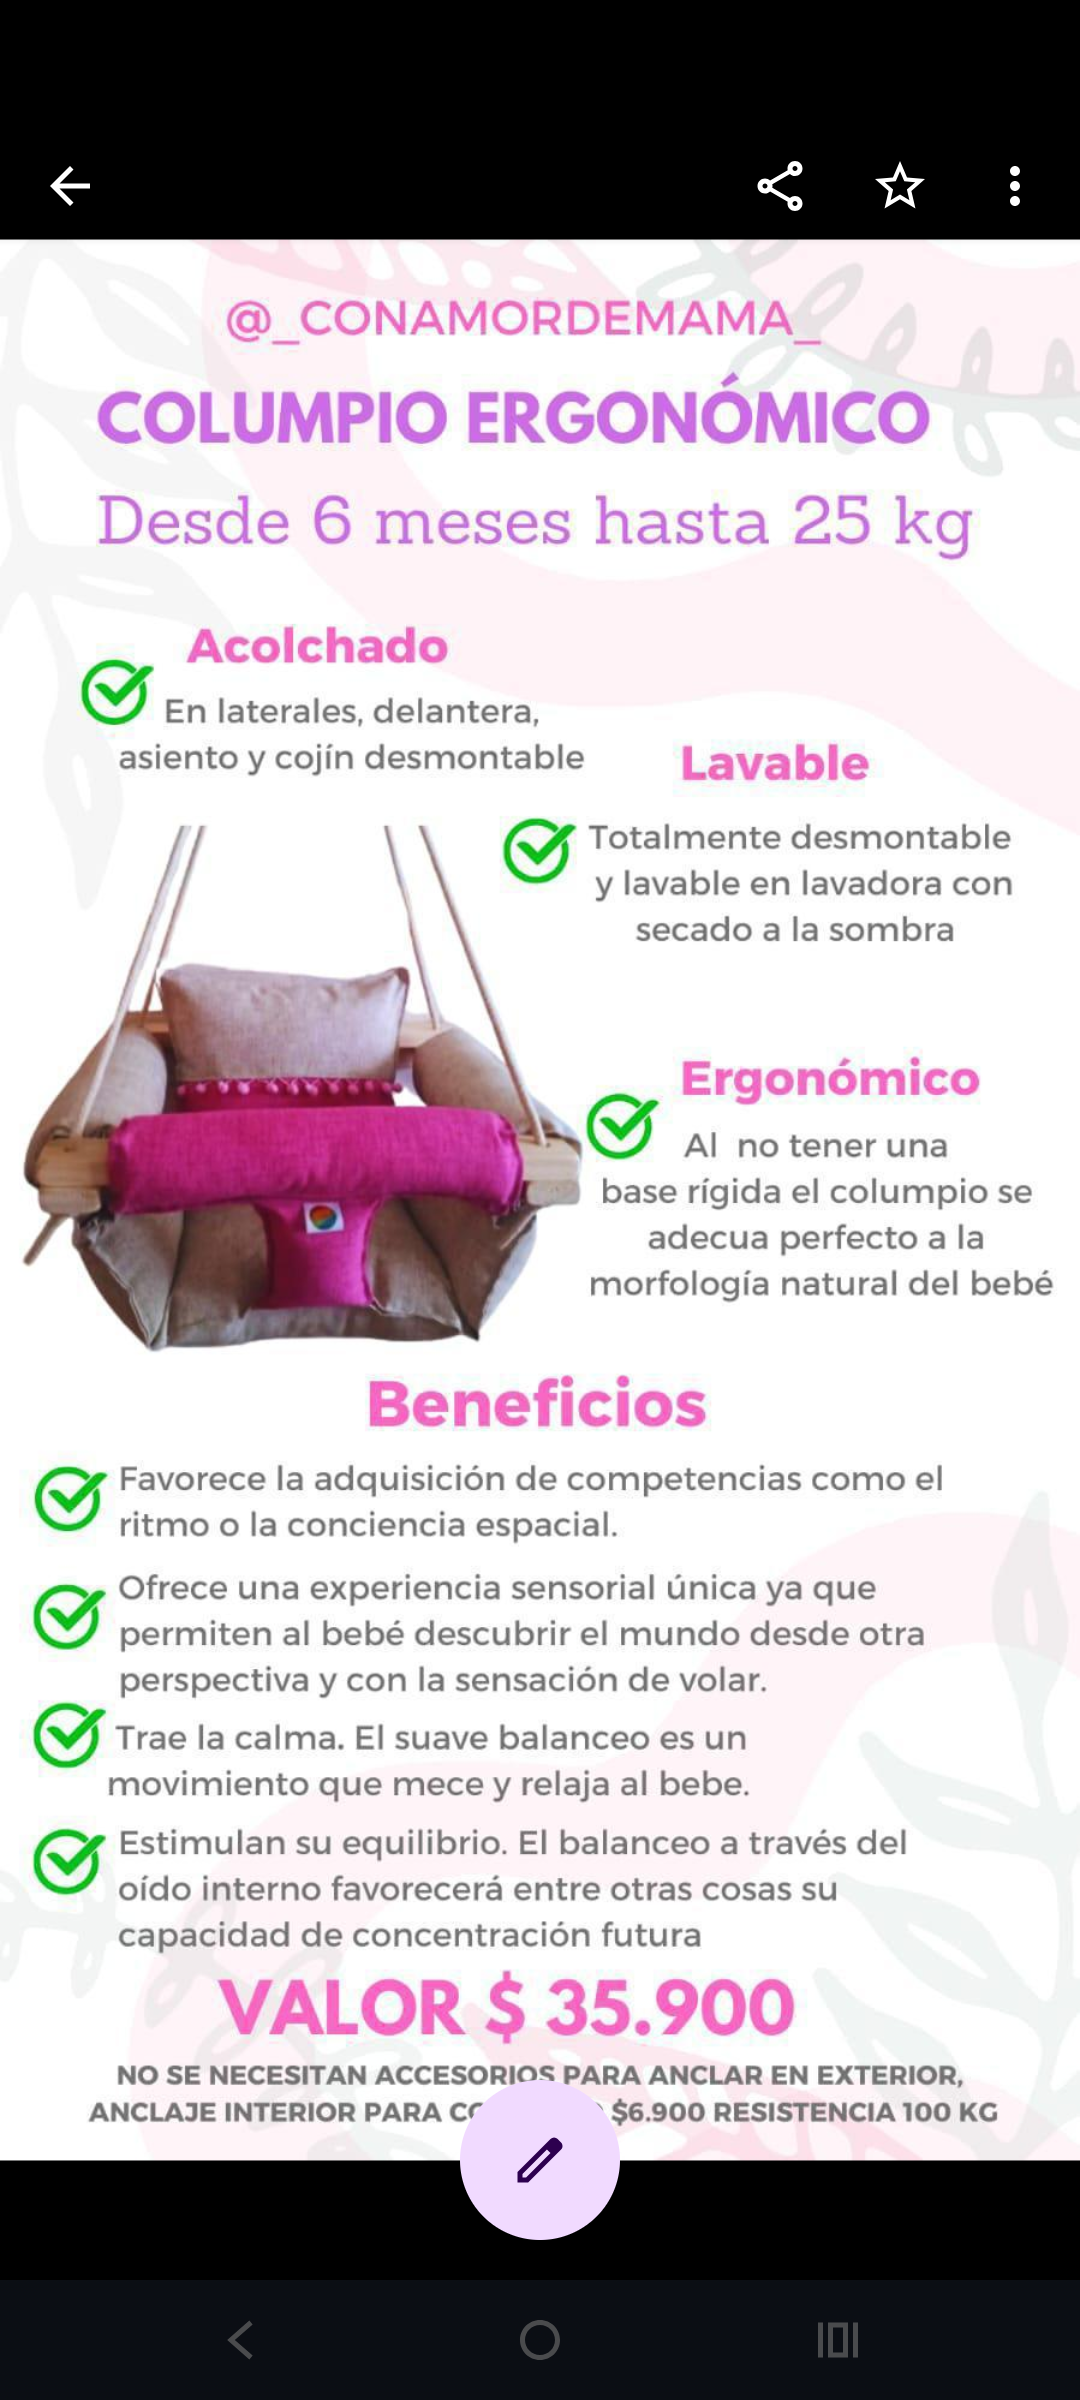
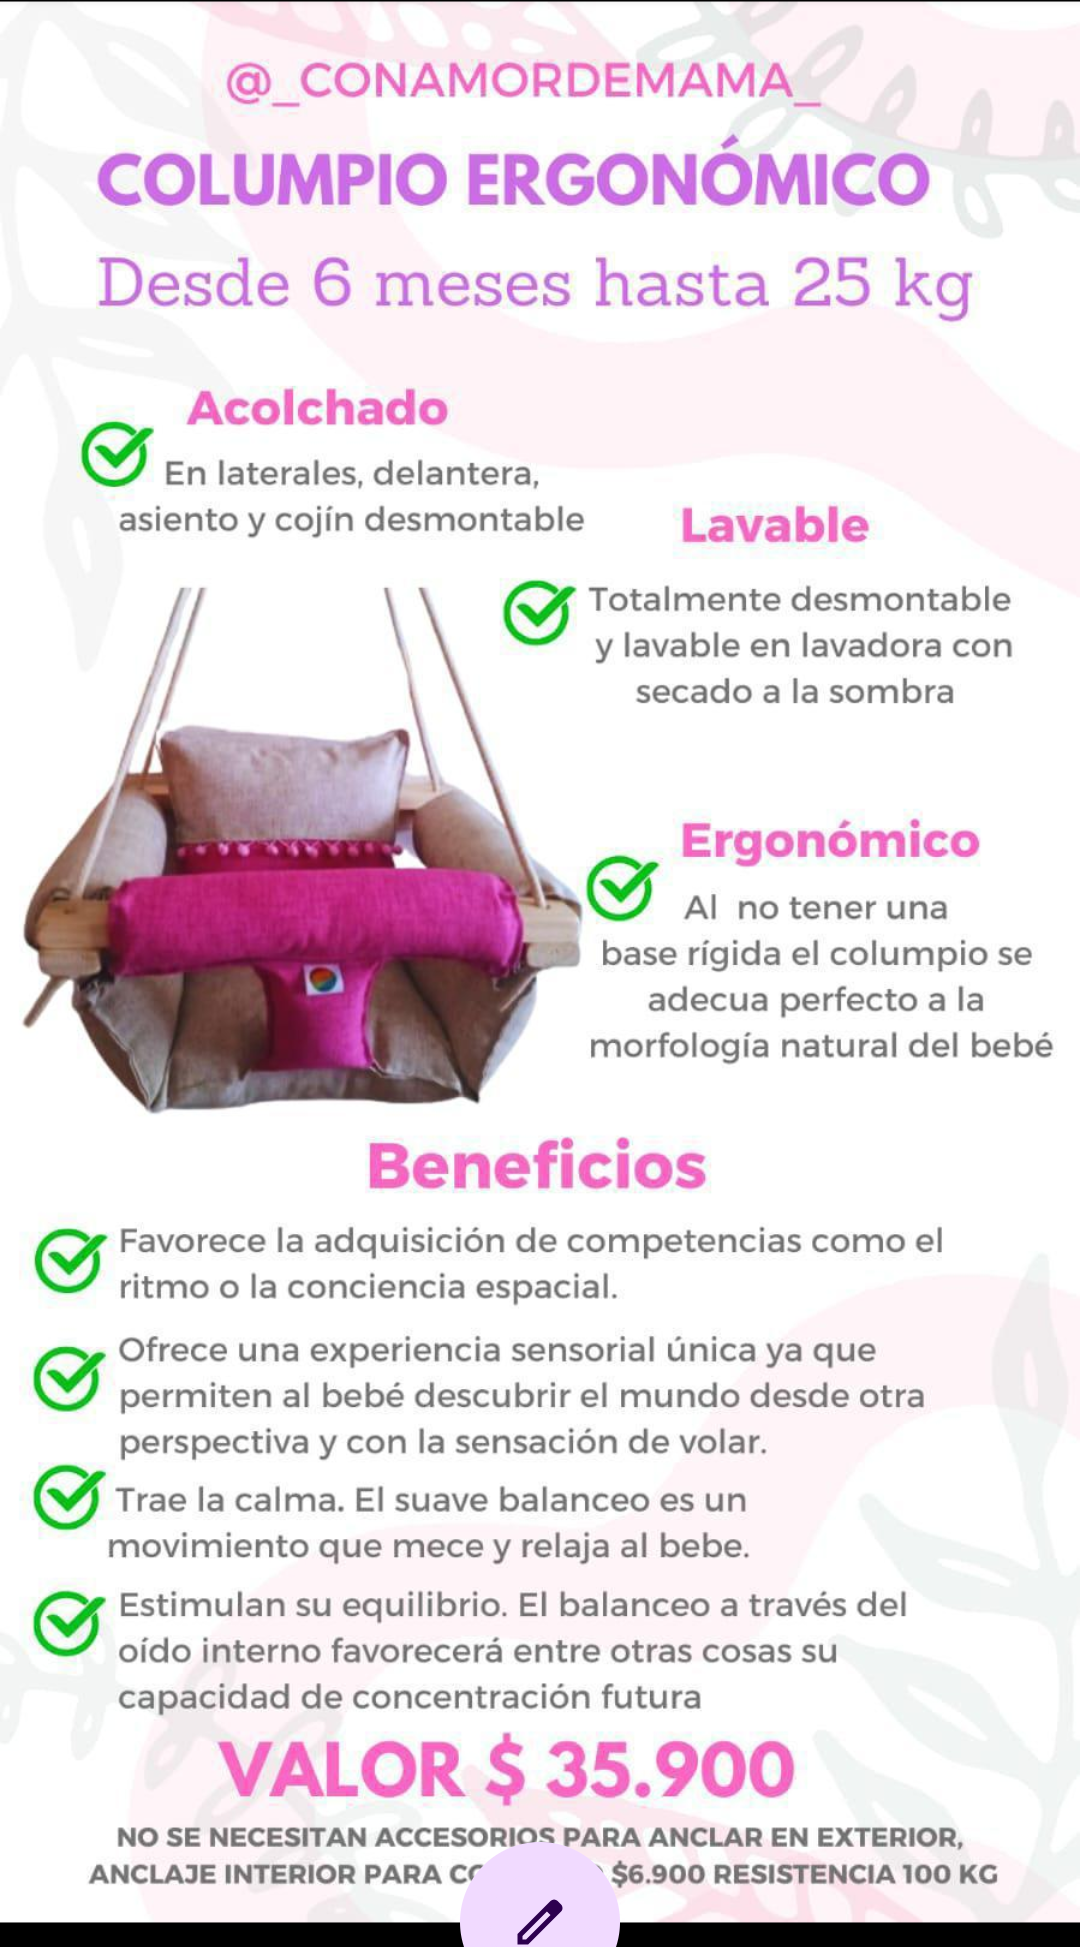
Muestra las capturas completas de Instagram sin recortar
Recorta la barra de estado y navegación del teléfono de las capturas
originales y ajusta las tarjetas de producto para mostrar la imagen
completa en vez de cortarla a 220px de alto.

diff --git a/css/style.css b/css/style.css
@@ -217,19 +217,19 @@ h2{
   border: 1px solid rgba(230,23,140,0.06);
 }
 .product-img{
-  height: 220px;
   background: var(--pink-soft);
   display: flex;
   align-items: center;
   justify-content: center;
 }
 .product-img img{
-  width: 100%; height: 100%;
-  object-fit: cover;
-  object-position: center top;
+  width: 100%; height: auto;
+  display: block;
+  object-fit: contain;
 }
 .product-img-placeholder{
   font-size: 56px;
+  height: 220px;
 }
 .product-body{
   padding: 22px;
